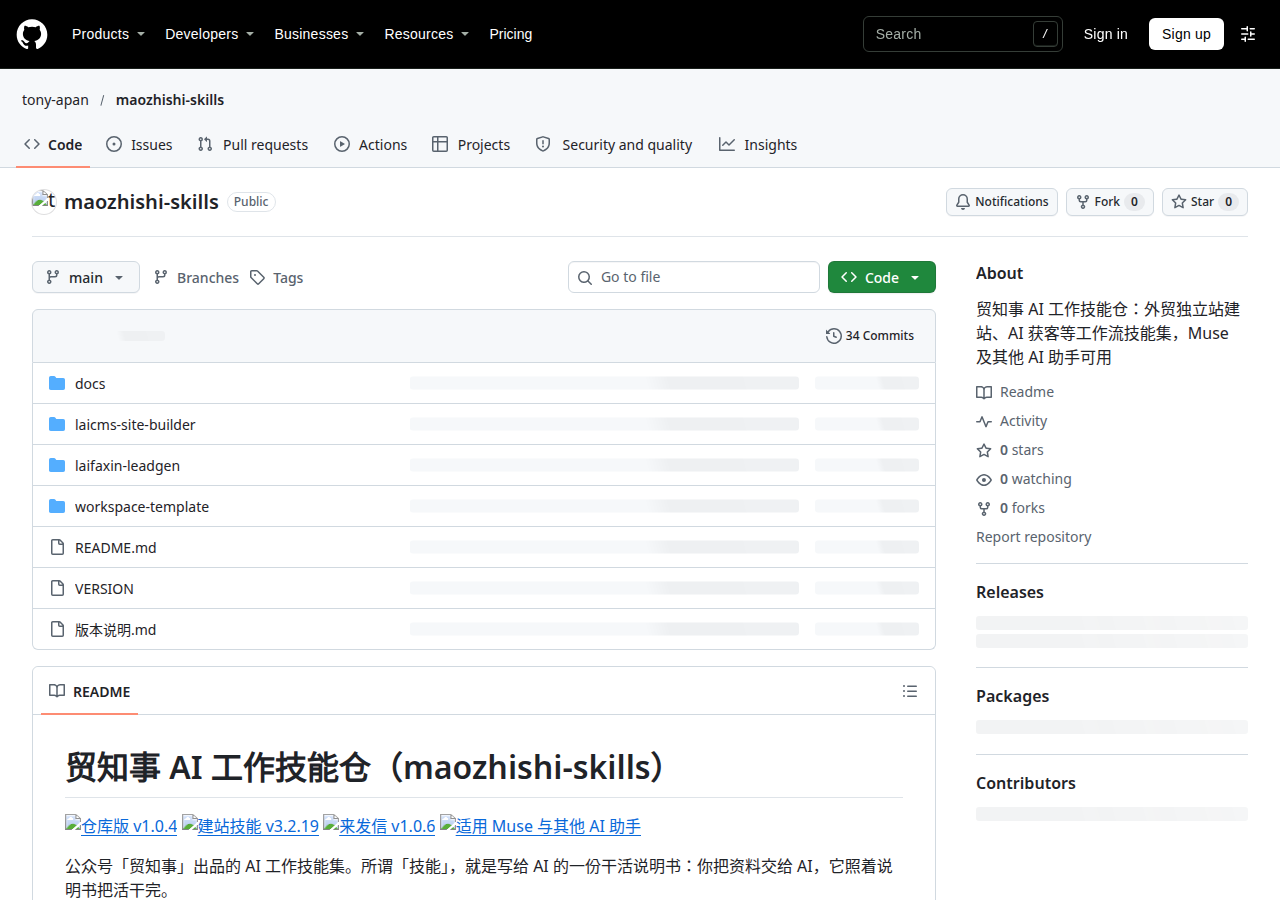
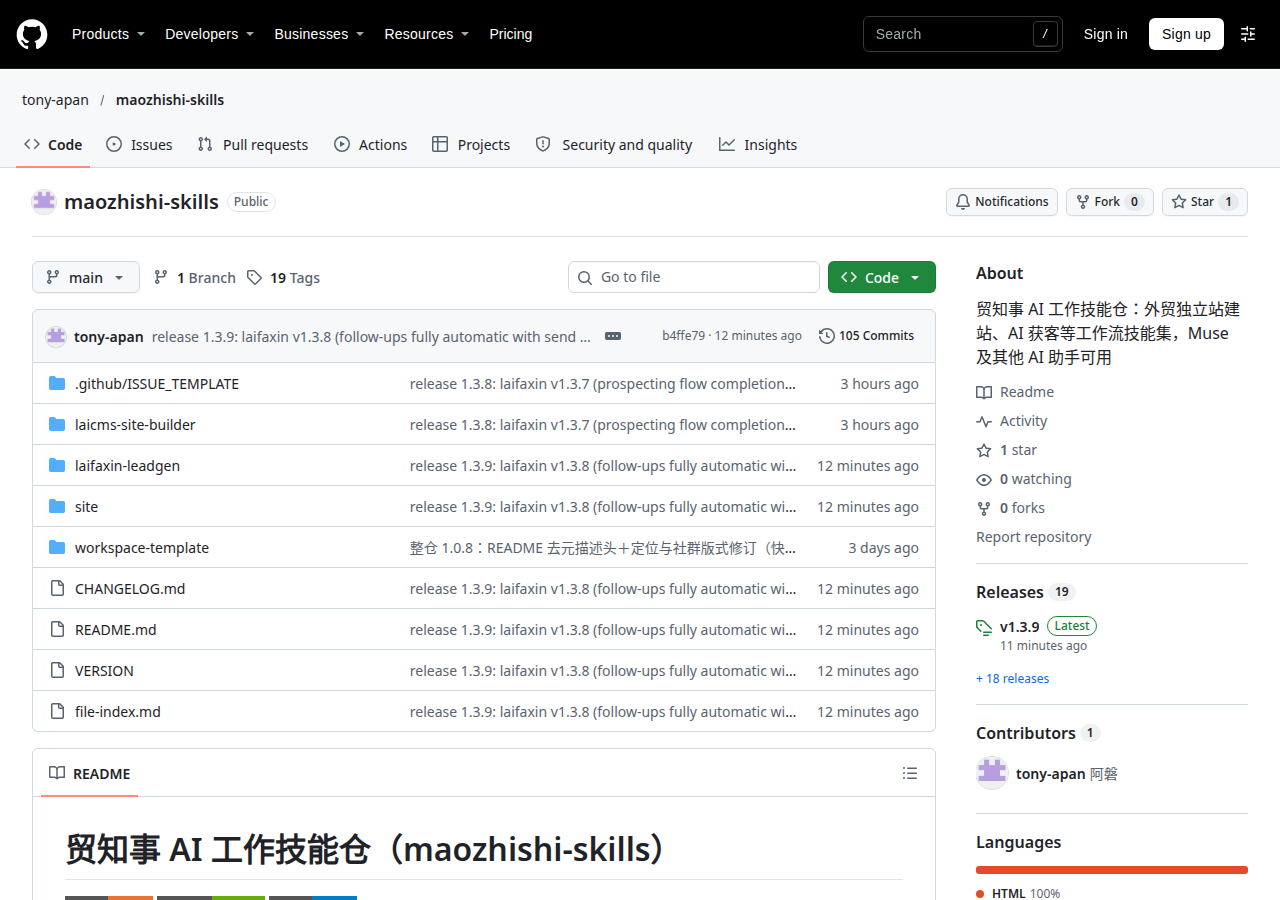
site: replace g1 repo-home screenshot with current v1.3.9 shot; add laifaxin demo images (first-send confirmation + daily report) to overview and precision-guide pages

diff --git a/site/laifaxin/jingfa/index.html b/site/laifaxin/jingfa/index.html
@@ -65,6 +65,10 @@
   article tr:last-child td { border-bottom:0; }
   .note, .warn { border-radius:12px; padding:16px 20px; margin:1.2em 0; font-size:15.5px; }
   .note { background:var(--wash); border-left:5px solid var(--blue); color:var(--ink2); }
+  figure { margin:1.3em 0; }
+  figure img { width:100%; border:1.5px solid var(--line); border-radius:12px; display:block; }
+  figure.shot { max-width:720px; margin-left:auto; margin-right:auto; }
+  figcaption { text-align:center; color:var(--mut); font-size:14px; margin-top:8px; }
   .warn { background:#fdf1e7; border-left:5px solid var(--org); color:var(--ink2); }
   .note strong, .warn strong { color:var(--ink); }
   .faq dt { font-weight:800; color:var(--ink); margin-top:1.3em; }
@@ -259,6 +263,10 @@
       <li><strong>小语种市场</strong>：本地语言版要有母语校对人校过才发；没有校对人，先用英文打，对方用本地语言回复时再单封处理。</li>
       <li>不装熟（严禁伪装和对方已有业务往来）、不用 emoji、不写假稀缺（「只剩最后几天」这类没影的话）。加粗只给钩子物和关键数字，全信 2–3 处。</li>
     </ul>
+    <figure class="shot">
+      <img src="/guide-images/laifaxin-confirm.png" alt="首封样信确认示例">
+      <figcaption>▲ 首封发送前，AI 先把样信和发送范围摆给你看（演示示例），你点头才发。</figcaption>
+    </figure>
 
 <h2 id="verify">发送前先验邮箱：无效不发</h2>
     <p>地址错了，信写得再好也是白费，还伤发送信誉。所以发送前有一道固定的闸，精发、群发都过，和走哪条通道无关：<strong>无效不发、有效才发、没验的先验</strong>。</p>

diff --git a/site/laifaxin/index.html b/site/laifaxin/index.html
@@ -65,6 +65,10 @@
   article tr:last-child td { border-bottom:0; }
   .note, .warn { border-radius:12px; padding:16px 20px; margin:1.2em 0; font-size:15.5px; }
   .note { background:var(--wash); border-left:5px solid var(--blue); color:var(--ink2); }
+  figure { margin:1.3em 0; }
+  figure img { width:100%; border:1.5px solid var(--line); border-radius:12px; display:block; }
+  figure.shot { max-width:720px; margin-left:auto; margin-right:auto; }
+  figcaption { text-align:center; color:var(--mut); font-size:14px; margin-top:8px; }
   .warn { background:#fdf1e7; border-left:5px solid var(--org); color:var(--ink2); }
   .note strong, .warn strong { color:var(--ink); }
   .faq dt { font-weight:800; color:var(--ink); margin-top:1.3em; }
@@ -214,6 +218,10 @@
       <li><strong>回信了</strong>，AI 先分好类：询盘和明确感兴趣的，优先提醒你出手；说不要的、退订的，立刻停发并记进不再打扰的名单；</li>
       <li><strong>每天的进展</strong>，AI 会给你一份日报：找了多少家、发了多少封、回了几封、点数还剩多少，扫一眼就心里有数。</li>
     </ul>
+    <figure class="shot">
+      <img src="/guide-images/laifaxin-daily.png" alt="每日开发日报示例">
+      <figcaption>▲ 每晚的日报长这样（演示示例）：找了多少家、发了多少封、回了几封、点数还剩多少，一屏看完。</figcaption>
+    </figure>
     <p>你要做的，就是在有询盘的时候出现，像平时谈客户一样接着谈。</p>
 
 <h2 id="faq">常见问题</h2>
